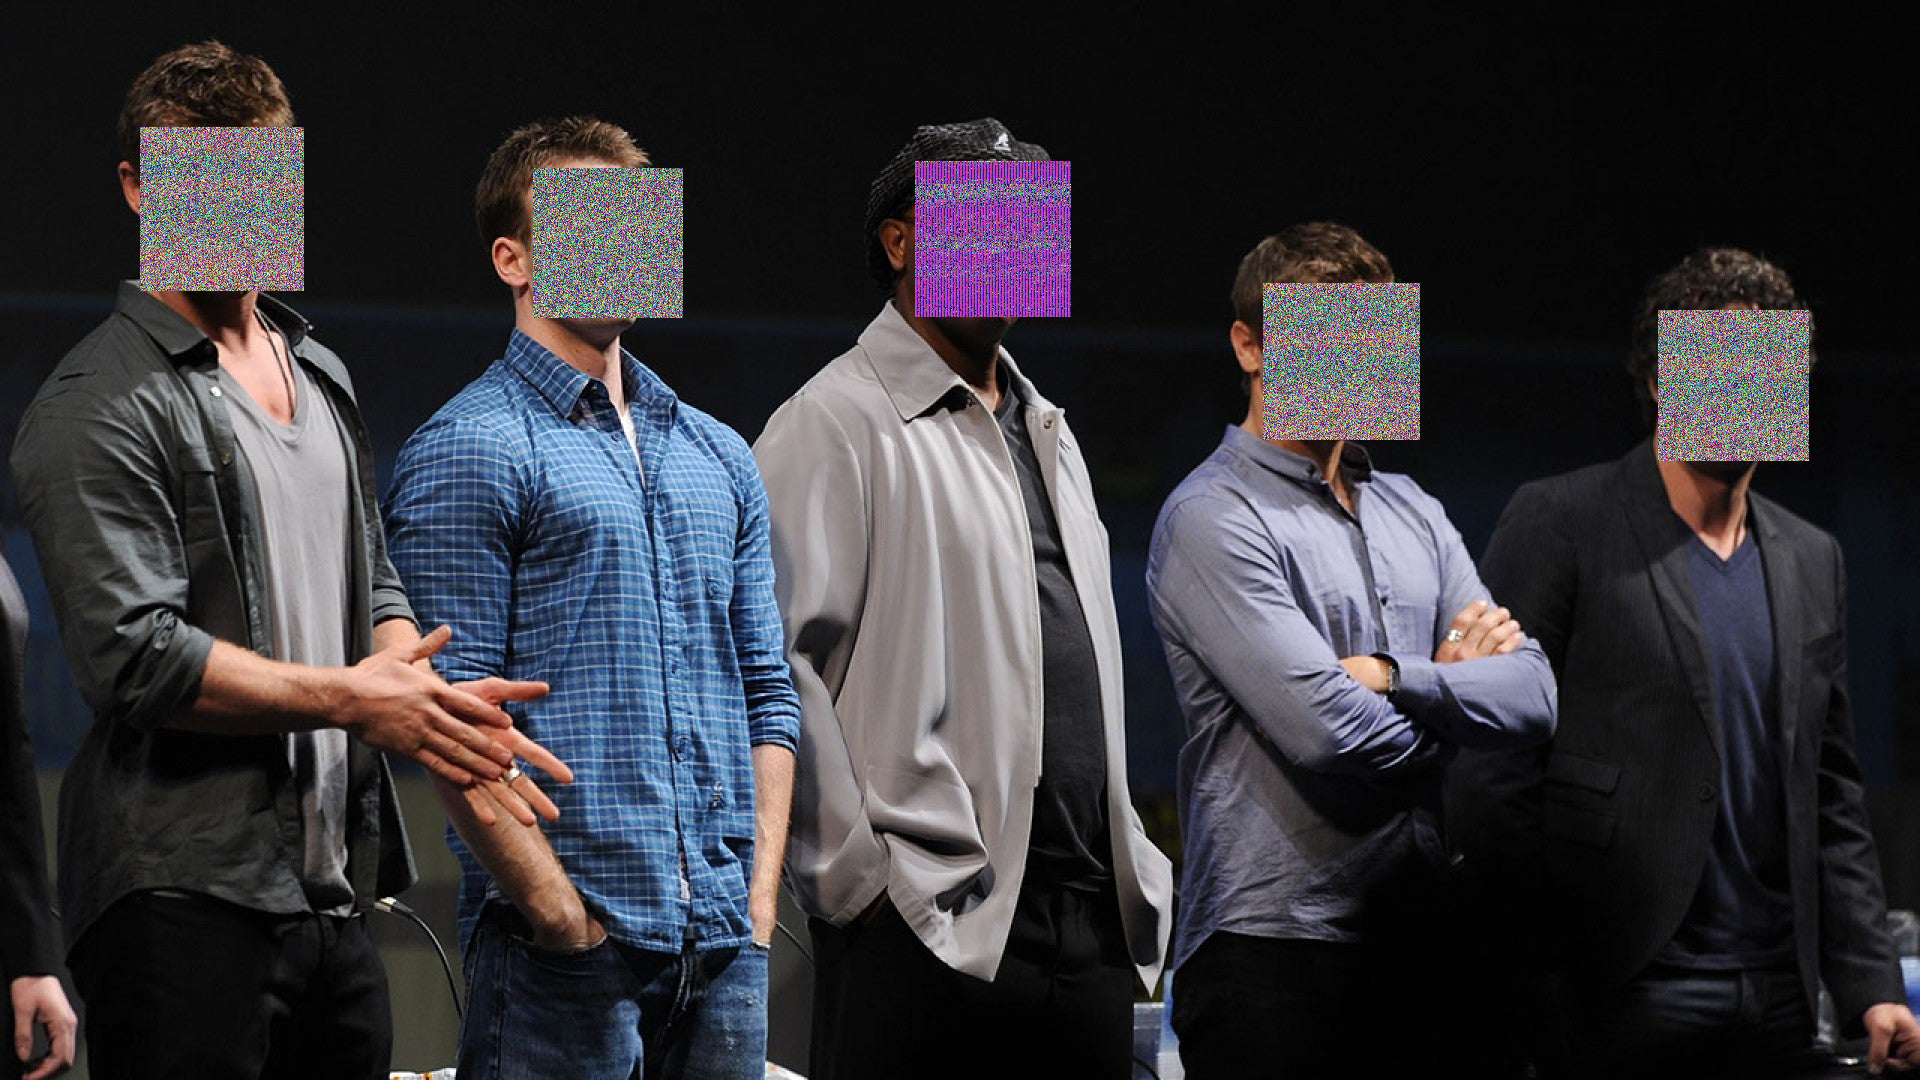
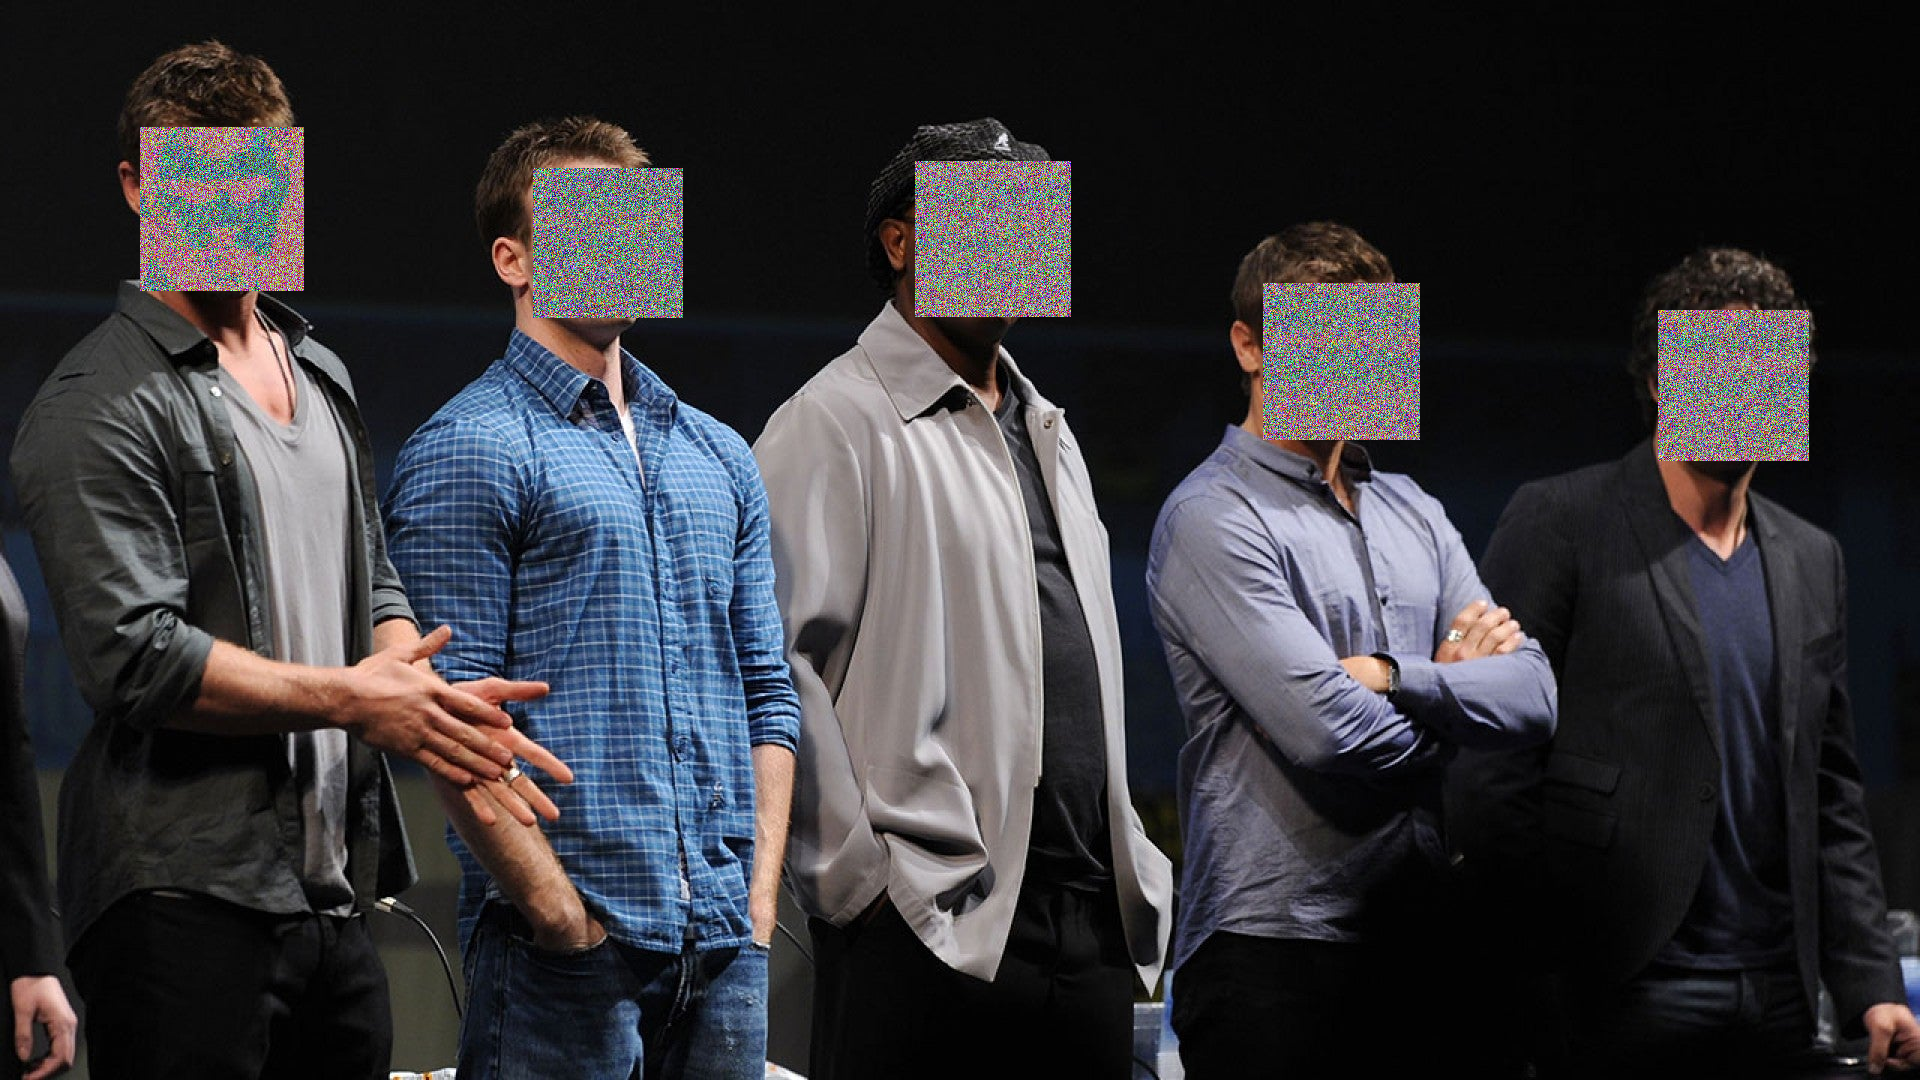
master use

diff --git a/Decryption/Decrypt.py b/Decryption/Decrypt.py
@@ -47,7 +47,7 @@ class FileDecryption:
         for cordinate in cordinates:
             self.initialise(self.retrievedKey,ind)
             # print(allfaces[ind])
-            # allfaces[ind]=self.reassemble(cordinate,pixelMap,allfaces[ind])
+            allfaces[ind]=self.reassemble(cordinate,pixelMap,allfaces[ind])
             # print(allfaces[ind])
             allfaces[ind]=self.fixImage(cordinate,pixelMap,allfaces[ind])
             # print(allfaces[ind],end="\n")
